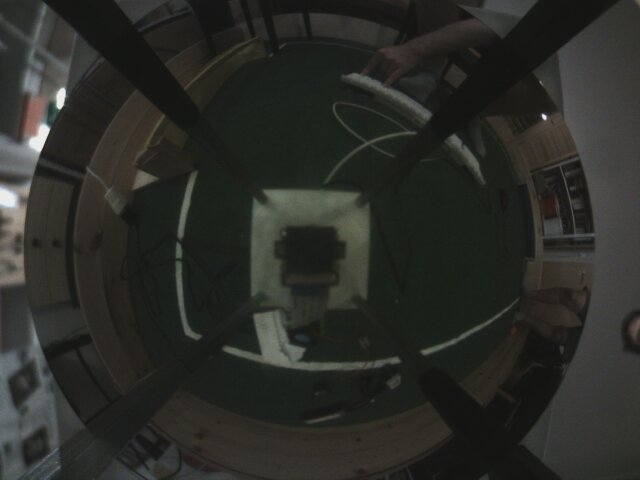
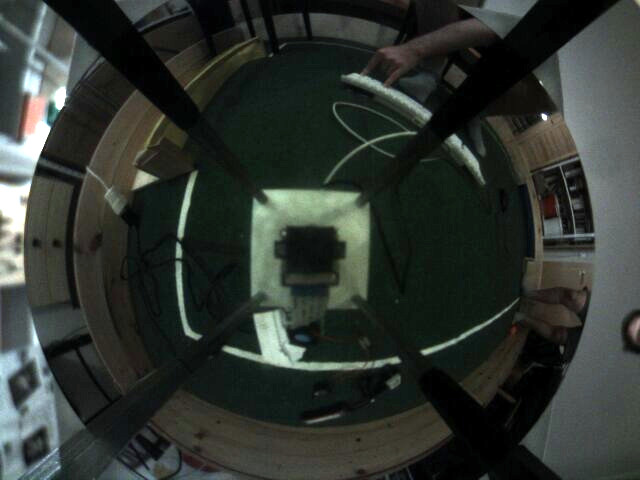
blue is dark in red

diff --git a/main.cpp b/main.cpp
@@ -98,7 +98,7 @@ void prepareFrame() {
 void normalizeChannels() {
         cvtColor(cameraFrame, gray, COLOR_BGR2GRAY);
         //blue goal
-        subtract(blue, gray, blueNormalized);
+        subtract(blue, red, blueNormalized);
         //field
         subtract(green, gray, greenNormalized);
         //ball
@@ -311,7 +311,7 @@ int main(int argc, const char * argv[]) {
                         break;
                 }
                 case 4: {
-                        imshow("Original Image", blue);
+                        imshow("Original Image", blueNormalized);
                         break;
                 }
                 case 5: {
